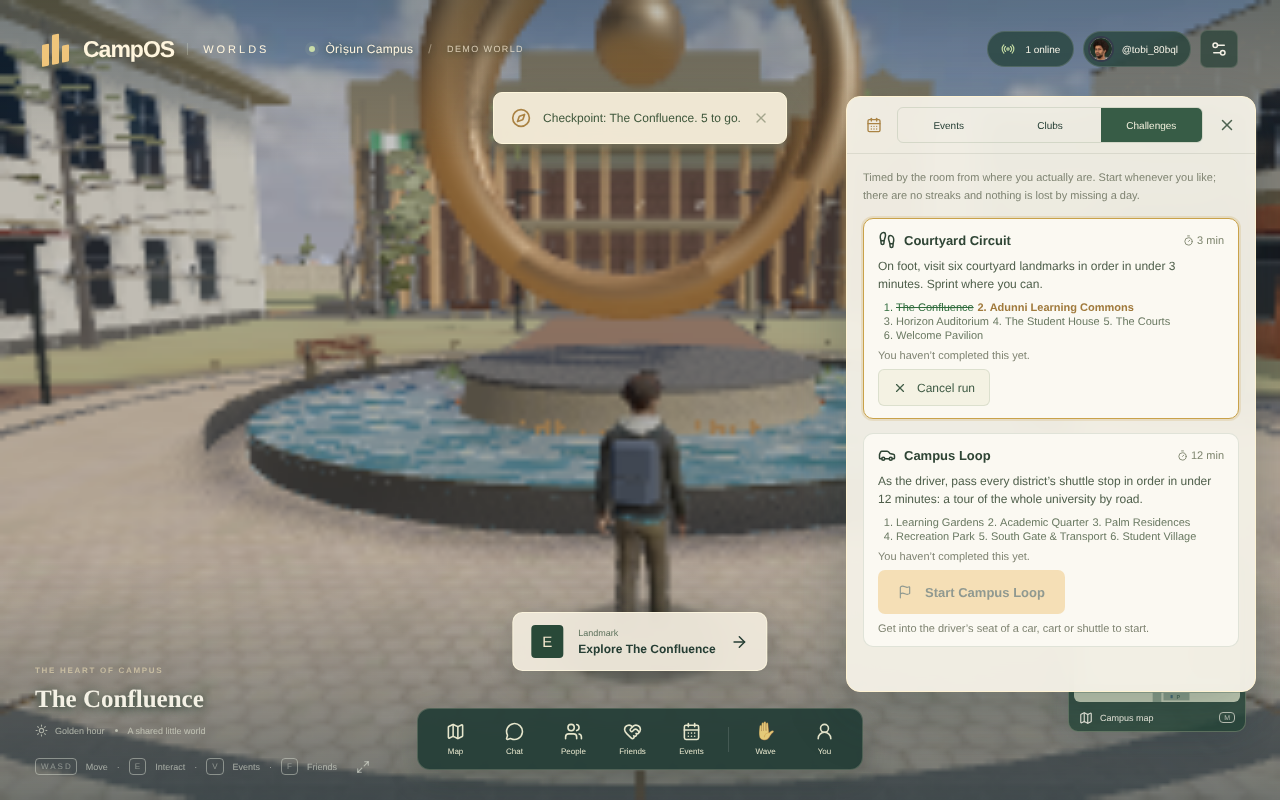
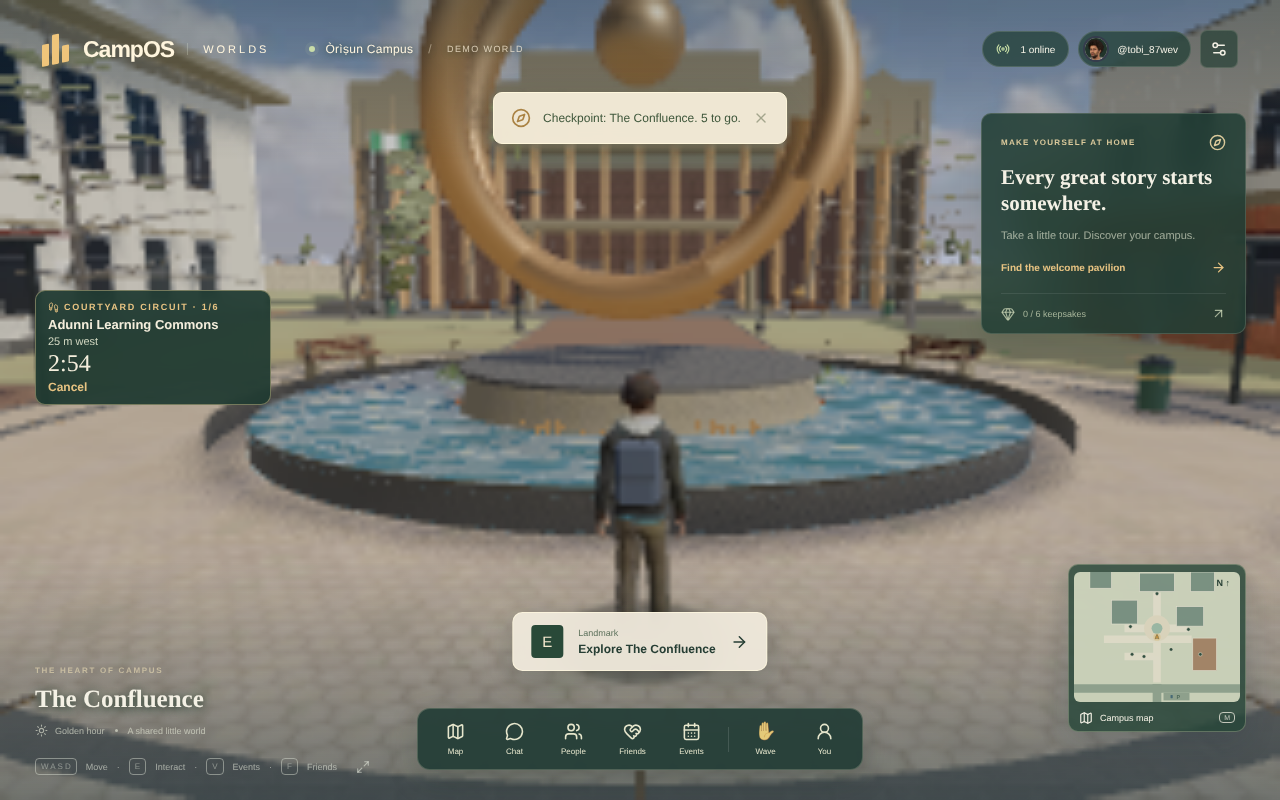
Open profiles from the world, refresh badges on view, phone HUD placement
- Click a player's name tag in the world to open their profile card (or the
  People list for guests); a drag that starts on a tag still looks around.
- The profile panel re-reads the profile when opened, so badges earned on
  another device or awarded by the database appear (with a notice).
- On phones the challenge HUD sits on the right, clear of the avatar.
- The dev-only QA hooks expose the camera so browser tests can click 3D
  name tags precisely.

Claude-Session: https://claude.ai/code/session_01GP4JKDc5qBHCgih79N8PMm

Changed region(s): [[0.6562, 0.0312, 1.0, 0.875], [0.0, 0.3438, 0.2188, 0.5312]]

diff --git a/src/world/World.tsx b/src/world/World.tsx
@@ -63,7 +63,11 @@ function PeerAvatar({ peer: initial }: { peer: Peer }) {
     const tagDistance = g.position.distanceToSquared(camera.position);
     tag.current.visible = tagDistance > 9 && tagDistance < 900;
   });
-  return <group ref={group} position={[peer.x, peer.y, peer.z]}><Suspense fallback={null}><Avatar id={initial.id} config={peer.avatar} motion={() => motion.current} /></Suspense><group ref={tag} position={[0, 2.25, 0]}><Label text={initial.name + (initial.verified ? ' ✓' : '')} p={[0, 0, 0]} width={2.4} height={.36} background={TAG[kind]} />{initial.title && ACHIEVEMENT_BY_ID.get(initial.title) && <Label text={ACHIEVEMENT_BY_ID.get(initial.title)!.title} p={[0, -.3, 0]} width={1.8} height={.22} color="#f2d69a" background="#1b2f28" />}</group></group>;
+  return <group ref={group} position={[peer.x, peer.y, peer.z]}><Suspense fallback={null}><Avatar id={initial.id} config={peer.avatar} motion={() => motion.current} /></Suspense><group ref={tag} position={[0, 2.25, 0]} name={`tag:${initial.id}`}
+    // Click a name tag to see who it is: their profile card, or the People list for guests. A drag
+    // that started on the tag (looking around) does not count.
+    onClick={e => { if (e.delta > 6) return; e.stopPropagation(); const p = livePeers.get(initial.id) ?? initial; useGame.getState().set({ panel: p.handle ? `player:${p.handle}` : 'players' }); document.exitPointerLock?.(); }}
+    onPointerOver={() => { document.body.style.cursor = 'pointer'; }} onPointerOut={() => { document.body.style.cursor = ''; }}><Label text={initial.name + (initial.verified ? ' ✓' : '')} p={[0, 0, 0]} width={2.4} height={.36} background={TAG[kind]} />{initial.title && ACHIEVEMENT_BY_ID.get(initial.title) && <Label text={ACHIEVEMENT_BY_ID.get(initial.title)!.title} p={[0, -.3, 0]} width={1.8} height={.22} color="#f2d69a" background="#1b2f28" />}</group></group>;
 }
 
 function Peers() {
@@ -118,12 +122,12 @@ function AdaptiveResolution({ max, min }: { max: number; min: number }) {
 }
 
 function Telemetry() {
-  const { gl, scene } = useThree(), frames = useRef(0), elapsed = useRef(0), sample = useRef({ calls: 0, triangles: 0 });
+  const { gl, scene, camera } = useThree(), frames = useRef(0), elapsed = useRef(0), sample = useRef({ calls: 0, triangles: 0 });
   // The post stack renders several passes per frame; accumulate them all and sample per frame.
   useEffect(() => { gl.info.autoReset = false; return () => { gl.info.autoReset = true; }; }, [gl]);
   useFrame(() => { sample.current = { calls: gl.info.render.calls, triangles: gl.info.render.triangles }; gl.info.reset(); }, -100);
   useEffect(() => {
-    if (QA_HOOKS) Object.assign(window, { __campusGL: gl, __campusScene: scene });
+    if (QA_HOOKS) Object.assign(window, { __campusGL: gl, __campusScene: scene, __campusCamera: camera });
     if (QA_HOOKS) (window as unknown as Record<string, unknown>).__campusHide = (prefix: string, hide = true) => { let n = 0; scene.traverse(o => { if (o.name.startsWith(prefix)) { o.visible = !hide; n++; } }); return n; };
     if (QA_HOOKS) (window as unknown as Record<string, unknown>).__campusStats = () => {
       const by: Record<string, number> = {};

diff --git a/src/ui/Account.tsx b/src/ui/Account.tsx
@@ -125,6 +125,8 @@ export function AccountPanel({ initial = 'view' }: { initial?: 'view' | 'edit' }
   const status = useAccount(s => s.status), profile = useAccount(s => s.profile), profileState = useAccount(s => s.profileState), accountError = useAccount(s => s.error), room = useAccount(s => s.room), email = useAccount(s => s.email);
   const [editing, setEditing] = useState(initial === 'edit');
   const { pending, act } = useAction();
+  // Badges earned elsewhere (another device, or awarded by the database) appear when you look.
+  useEffect(() => { if (useAccount.getState().status === 'signed-in' && useAccount.getState().profile) void reloadProfile(); }, []);
   if (status === 'unconfigured') return <div className="empty-state"><ShieldCheck size={30} /><h3>Accounts aren’t available here yet.</h3><p>{NOT_CONFIGURED}</p><small>Operators: see docs/ACCOUNTS.md to connect a Supabase project.</small></div>;
   if (status === 'loading') return <Loading label="Checking your account…" />;
   if (status === 'guest') return <><AuthForm />{accountError && <p className="form-error">{accountError}</p>}</>;

diff --git a/src/styles.css b/src/styles.css
@@ -381,7 +381,7 @@
 .challenge-hud strong{font-family:Georgia,serif;font-size:24px;font-weight:400;font-variant-numeric:tabular-nums}
 .challenge-hud strong.low{color:#f19a7c}
 .challenge-hud .text-button{color:#e7c382;margin:0;width:auto;align-self:flex-start}
-@media(max-width:760px){.challenge-hud{right:12px;top:auto;bottom:300px;width:170px;padding:8px 10px}.challenge-hud strong{font-size:18px}}
+@media(max-width:760px){.challenge-hud{left:auto;right:12px;top:auto;bottom:300px;width:170px;padding:8px 10px}.challenge-hud strong{font-size:18px}}
 @media(pointer:coarse) and (max-height:500px){.challenge-hud{bottom:auto;top:64px;right:12px}}
 /* Secondary buttons were only themed inside dialogs; drawers, cards and HUDs use them too. */
 .secondary{background:#e7e5d7;color:#3d5742;border:1px solid #345c3520}
